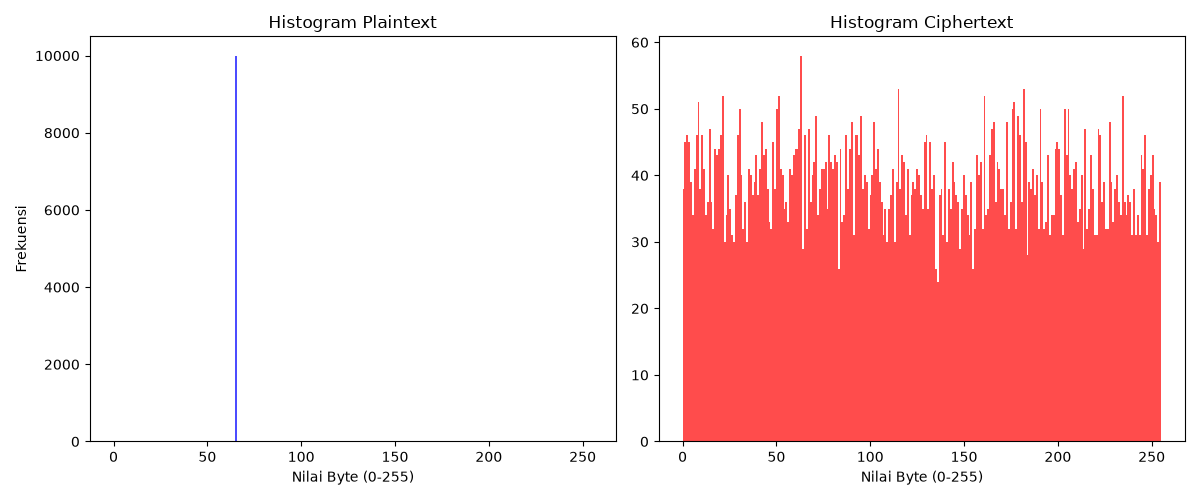
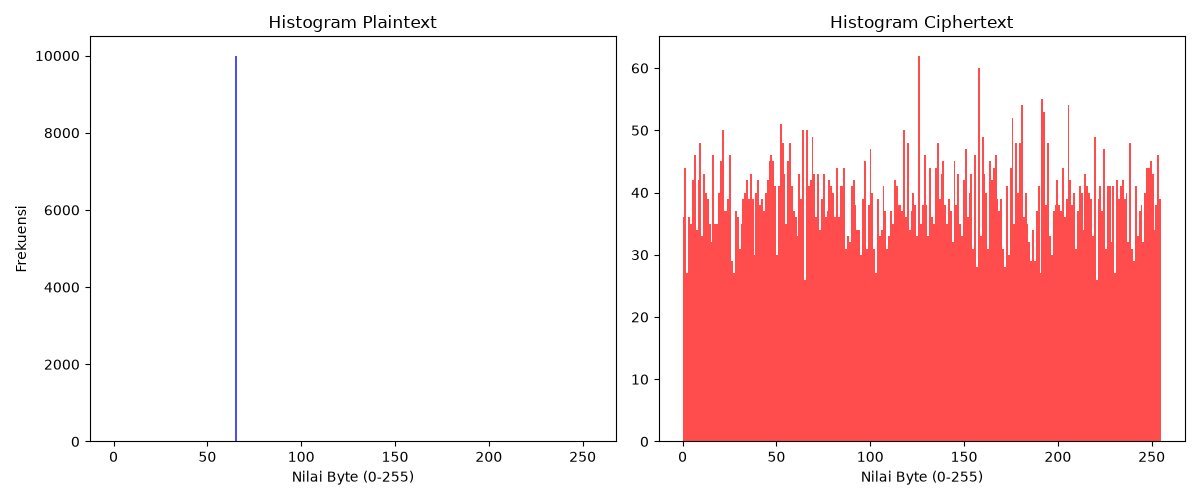
Perbaikan Logika Optimal

diff --git a/frontend/app/page.tsx b/frontend/app/page.tsx
@@ -187,7 +187,7 @@ export default function Home() {
         </nav>
       </header>
 
-      <main className="max-w-3xl mx-auto pt-32 pb-16 px-6">
+      <main className={`mx-auto pt-32 pb-16 px-6 transition-all duration-300 ${mode === 'menu' ? 'max-w-6xl' : mode === 'visualize' ? 'max-w-5xl' : 'max-w-3xl'}`}>
         {mode === 'menu' && (
           <div className="space-y-8 animate-in fade-in zoom-in duration-500">
             <div className="text-center space-y-4 mb-12">

diff --git a/backend/pengujian/uji_wajib.py b/backend/pengujian/uji_wajib.py
@@ -74,28 +74,29 @@ def run_tests():
             print(f"[{label}] Enkripsi: {time_enc:.2f} ms | Dekripsi: {time_dec:.2f} ms")
 
     print("\n" + "="*50)
-    print("3. UJI AVALANCHE EFFECT (Modifikasi 1 bit plaintext)")
+    print("3. UJI AVALANCHE EFFECT (Modifikasi 1 bit kunci)")
     print("="*50)
     test_plain = os.urandom(64) # 64 bytes data
-    # Menetapkan salt dan nonce agar perbedaan pure hanya berasal dari perubahan data
     fixed_salt = os.urandom(16)
     fixed_nonce = os.urandom(12)
     
     for algo in algos:
-        cipher1_b64 = logika.encrypt_data(test_plain, password, algo, fixed_salt, fixed_nonce)
-        cipher1_bytes = base64.b64decode(cipher1_b64)[28:] # Ambil hanya ciphertext+tag
+        key1 = logika.derive_key(password, fixed_salt)
+        if algo == "AES-GCM":
+            c1 = logika.AESGCM(key1)
+        else:
+            c1 = logika.ChaCha20Poly1305(key1)
+        cipher1_bytes = c1.encrypt(fixed_nonce, test_plain, None)
         
-        # Ubah persis 1 bit (XOR dengan 1 pada byte pertama)
-        flipped_plain = bytearray(test_plain)
-        flipped_plain[0] ^= 1 
+        modified_key = bytearray(key1)
+        modified_key[0] ^= 0x01
+        if algo == "AES-GCM":
+            c2 = logika.AESGCM(bytes(modified_key))
+        else:
+            c2 = logika.ChaCha20Poly1305(bytes(modified_key))
+        cipher2_bytes = c2.encrypt(fixed_nonce, test_plain, None)
         
-        cipher2_b64 = logika.encrypt_data(bytes(flipped_plain), password, algo, fixed_salt, fixed_nonce)
-        cipher2_bytes = base64.b64decode(cipher2_b64)[28:]
-        
-        # Hitung bit yang berbeda
-        diff_bits = sum(bin(b1 ^ b2).count('1') for b1, b2 in zip(cipher1_bytes, cipher2_bytes))
-        total_bits = len(cipher1_bytes) * 8
-        avalanche = (diff_bits / total_bits) * 100
+        avalanche = logika.calculate_hamming_distance_percentage(cipher1_bytes, cipher2_bytes)
         print(f"{algo} -> Avalanche Effect: {avalanche:.2f}% (Ideal ~50%)")
 
     print("\n" + "="*50)

diff --git a/backend/logika.py b/backend/logika.py
@@ -123,16 +123,21 @@ def encrypt_data_with_metrics(plaintext: bytes, password: str, algo: str = "AES-
     hist_plaintext = calculate_histogram(plaintext)
     hist_ciphertext = calculate_histogram(ciphertext_raw)
     
-    # Avalanche Effect simulation (flip 1 random bit in plaintext)
+    # Avalanche Effect simulation (flip 1 bit in Key)
     avalanche_pct = 50.0
     if len(plaintext) > 0:
-        modified_pt = bytearray(plaintext)
-        byte_idx = random.randint(0, len(modified_pt) - 1)
-        bit_idx = random.randint(0, 7)
-        modified_pt[byte_idx] ^= (1 << bit_idx)
-        
         try:
-            mod_ciphertext_raw = cipher.encrypt(nonce, bytes(modified_pt), None)
+            modified_key = bytearray(key)
+            modified_key[0] ^= 0x01
+            
+            if algo == "AES-GCM":
+                mod_cipher = AESGCM(bytes(modified_key))
+            elif algo == "ChaCha20-Poly1305":
+                mod_cipher = ChaCha20Poly1305(bytes(modified_key))
+            else:
+                mod_cipher = cipher
+                
+            mod_ciphertext_raw = mod_cipher.encrypt(nonce, plaintext, None)
             avalanche_pct = calculate_hamming_distance_percentage(ciphertext_raw, mod_ciphertext_raw)
         except Exception:
             avalanche_pct = 50.0

diff --git a/Perubahan.md b/Perubahan.md
@@ -1,0 +1,31 @@
+Konteks Masalah:
+Simulasi Avalanche Effect saat ini menghasilkan nilai 0.00% karena algoritma AES-GCM dan ChaCha20-Poly1305 beroperasi dengan prinsip stream cipher (menggunakan keystream). Membalikkan (flip) 1 bit pada plaintext menggunakan kunci dan IV yang sama hanya akan mengubah 1 bit pada ciphertext. Untuk mendapatkan evaluasi yang valid pada mode ini, modifikasi (bit-flip) harus dilakukan pada Kunci (Key) atau IV, bukan pada plaintext.
+
+Kebutuhan Pembaruan Kode:
+Tulis ulang fungsi penghitung avalanche_effect di backend dengan alur logika berikut:
+
+    Pertahankan Plaintext: Jangan lakukan modifikasi apa pun pada data plaintext asli.
+
+    Enkripsi Baseline: Lakukan enkripsi menggunakan Plaintext, Key asli, dan IV asli. Ekstrak data ciphertext (tidak termasuk tag autentikasi jika memungkinkan, atau gunakan keseluruhan payload). Simpan sebagai ciphertext_A.
+
+    Injeksi Perubahan (Bit-Flipping):
+
+        Buat salinan dari Key asli menjadi modified_key (berupa bytearray).
+
+        Ubah (XOR) tepat 1 bit pada byte pertama dari modified_key.
+
+        Contoh implementasi Python: modified_key[0] ^= 0x01
+
+    Enkripsi Sekunder: Lakukan enkripsi kedua pada Plaintext yang sama menggunakan modified_key dan IV asli. Simpan hasilnya sebagai ciphertext_B.
+
+    Kalkulasi Hamming Distance:
+
+        Lakukan iterasi per byte (dan per bit) antara ciphertext_A dan ciphertext_B.
+
+        Hitung jumlah total bit yang berbeda di posisi yang sama.
+
+    Kalkulasi Persentase: Hitung rasio perubahan menggunakan rumus: (Hamming Distance / Total Bit Panjang Ciphertext) * 100.
+
+    Pengembalian Data: Pastikan API sekarang mengembalikan persentase yang berada di kisaran ~50% (jika algoritmanya ideal) ke antarmuka Next.js.
+
+Catatan Kriptografi: Jangan gunakan modified_key ini untuk operasi penyimpanan atau dekripsi yang sesungguhnya. Operasi ini harus diisolasi murni di dalam service analitik atau blok kode metrik evaluasi sesaat setelah enkripsi data asli selesai dilakukan.
